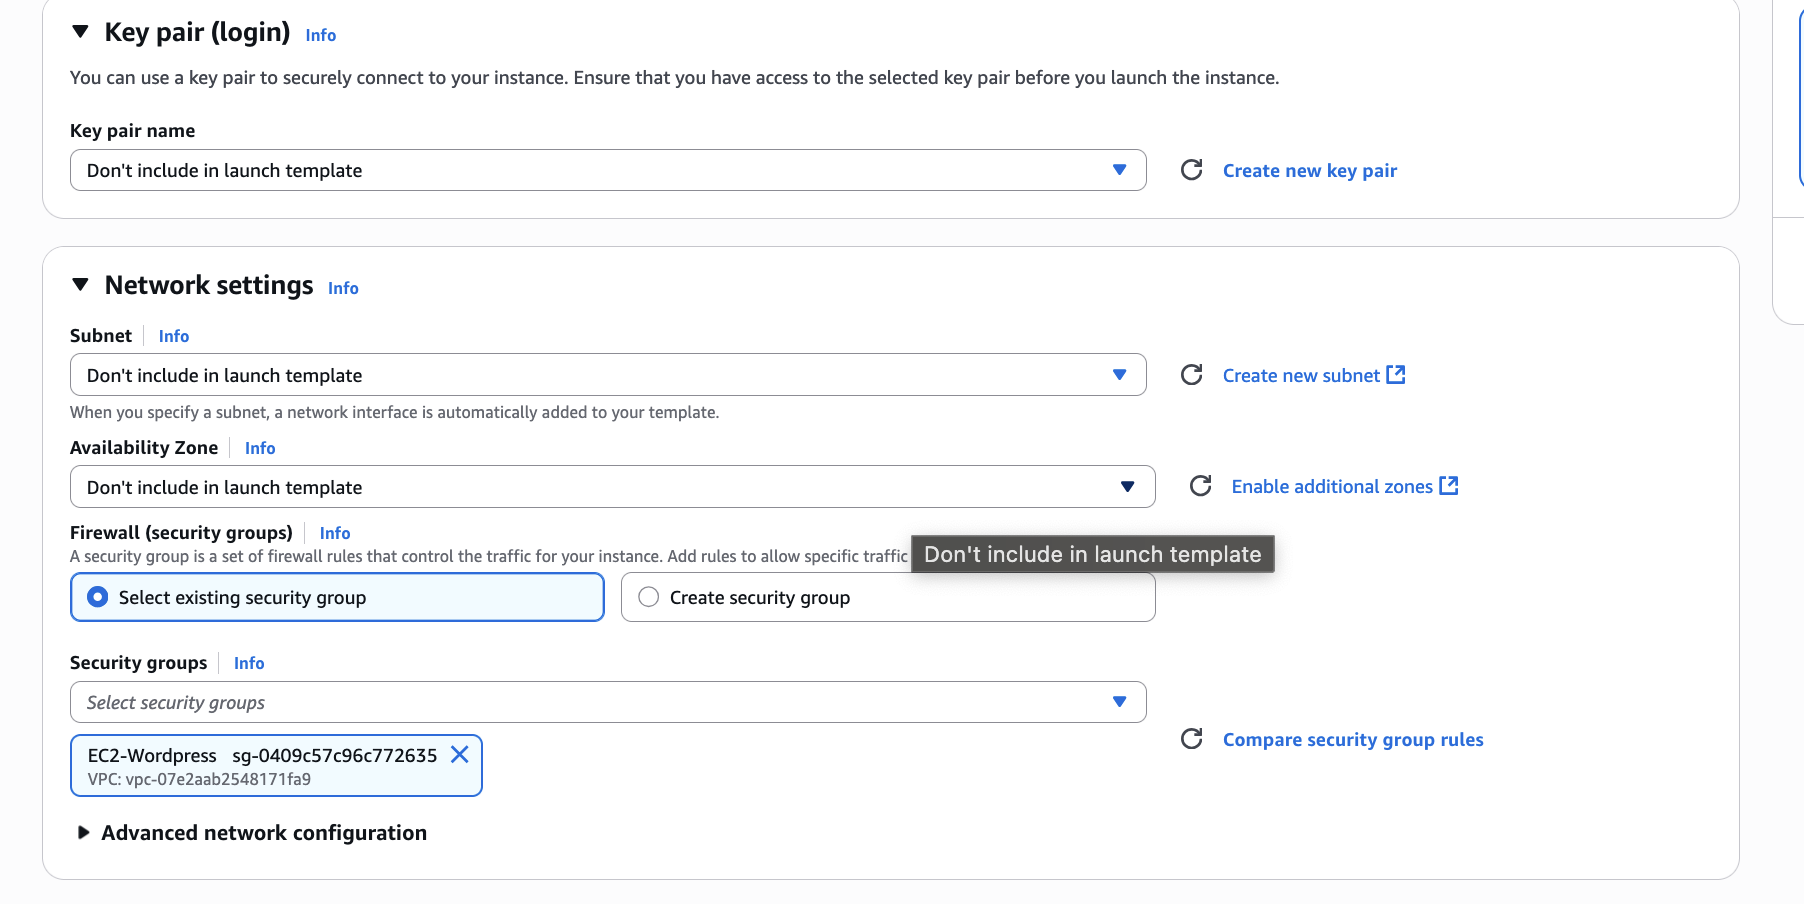
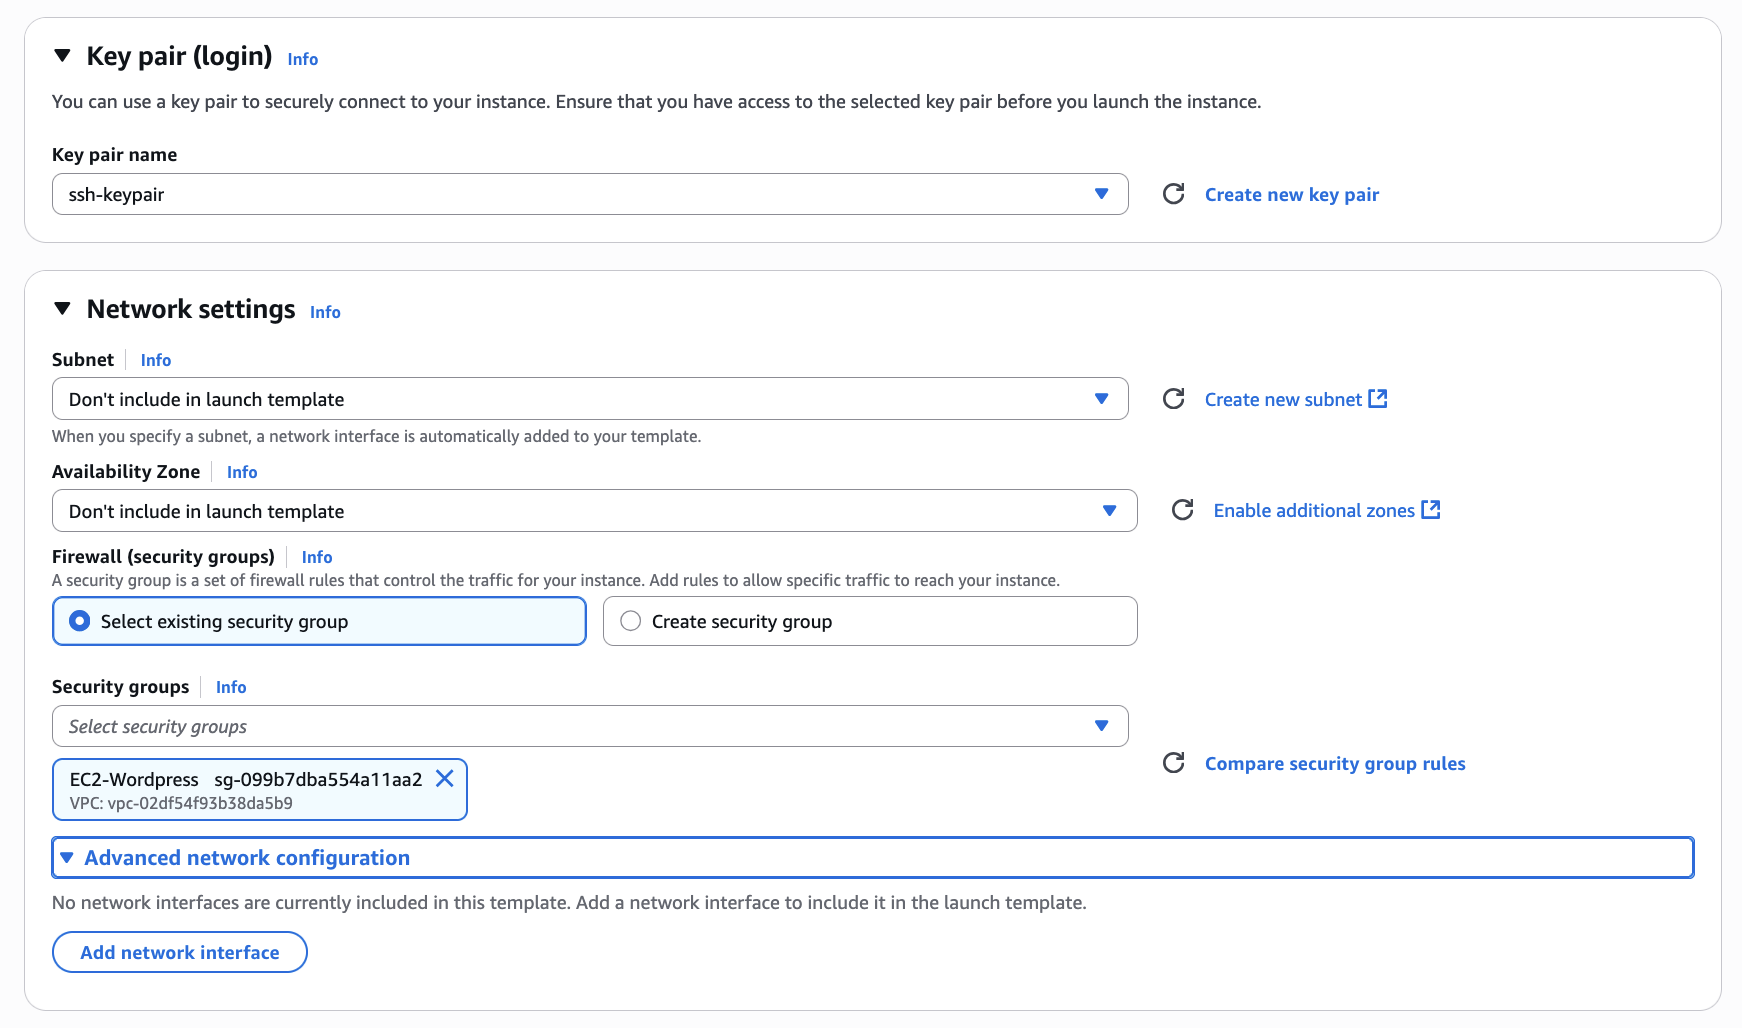
fix: ajustar imagem 15

diff --git a/Wordpress/README.md b/Wordpress/README.md
@@ -161,7 +161,7 @@ Após clicar, você preenche os dados para criar conforme a imagem abaixo. E cli
 ## Etapa 8: Criação do Launch Template.
 Com a imagem em mãos, podemos criar um Launch Template. Entre em EC2 > Launch templates > Create launch template. Preencha com o nome e escolha a imagem que criamos no passo anterior.
 
-Selecione o tipo de instância t2.micro. Sua configuração deve ficar dessa forma:
+Selecione o tipo de instância t2.micro. Além disso, coloque uma chave SSH (de preferência a mesma chave que você usou para configurar a bastion) para caso você precise fazer alguma alteração direto na máquina. Sua configuração deve ficar dessa forma:
 
 ![Create launch template](./arquivos/image-15.png)
 
